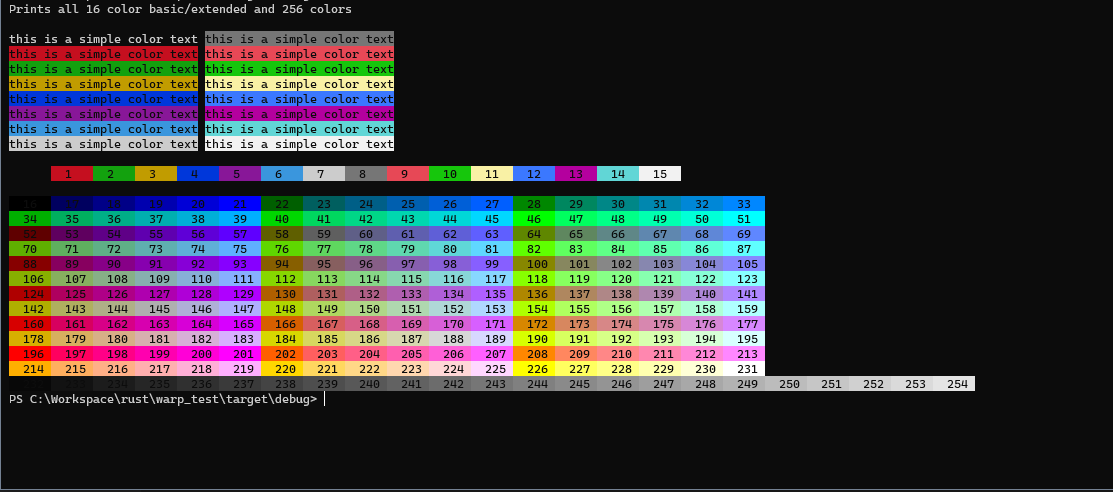
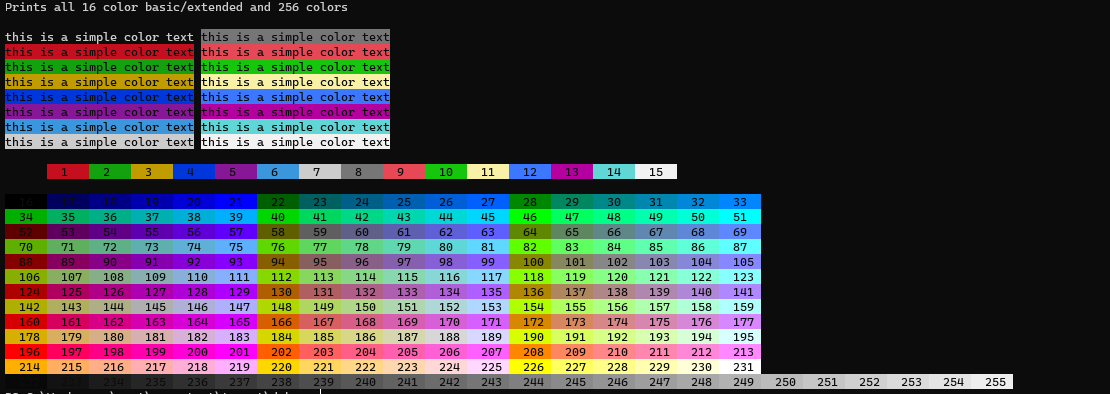
Color libraries merged.

diff --git a/src/color.rs b/src/color.rs
@@ -1,6 +1,6 @@
 /*!
-# color16
-This module implements all 16 terminal color rendering operations,
+# color
+This module implements all terminal color rendering operations,
 color conversions, color name definitions and traits for rust color library.
 
 ### 3bit and 4bit
@@ -14,6 +14,20 @@ color, providing 8 additional foreground and background colors.
 * to get black letters on white background - **ESC[30;47m**.
 * to get brighter colors with black letters on white background - **ESC[90;107m**. (+60)
 * to reset all attributes - **ESC[0m**.
+
+### 8bit
+
+As [256-color](https://en.wikipedia.org/wiki/8-bit_color) lookup tables became common on graphic cards, escape sequences were added to select from a pre-defined set of 256 colors
+
+### Examples
+
+* ESC[ 38;5;⟨n⟩ m Select foreground color
+* ESC[ 48;5;⟨n⟩ m Select background color \
+* ESC[ 38;5;⟨n1⟩;48;5;⟨n2⟩ m both foreground and background \
+0 - 7:  standard colors (as in ESC [ 30–37 m) \
+8 - 15:  high intensity colors (as in ESC [ 90–97 m) \
+16 - 231:  6 × 6 × 6 cube (216 colors): 16 + 36 × r + 6 × g + b (0 ≤ r, g, b ≤ 5) \
+232-255:  grayscale from black to white in 24 steps
  */
 
 /// Implements 16 color rendering operations and describes 16 color enumerations.
@@ -62,7 +76,7 @@ impl Color16 {
     /// # Examples
     ///
     /// ```
-    /// use rustcolor::color16::*;
+    /// use rustcolor::color::*;
     ///
     /// let bg_blue = Color16::BgBlue;
     /// let result = Color16::color_to_usize(bg_blue);
@@ -77,7 +91,7 @@ impl Color16 {
     /// # Examples
     ///
     /// ```
-    /// use rustcolor::color16::*;
+    /// use rustcolor::color::*;
     ///
     /// let bg_blue = Color16::usize_to_color(44);
     /// let expected = Color16::BgBlue;
@@ -128,7 +142,7 @@ impl Color16 {
     /// # Examples
     ///
     /// ```
-    /// use rustcolor::color16::*;
+    /// use rustcolor::color::*;
     ///
     /// let fg_blue = Color16::FgBlue;
     /// let fg_light_blue = fg_blue.lighten();
@@ -148,7 +162,7 @@ impl Color16 {
     /// # Examples
     ///
     /// ```
-    /// use rustcolor::color16::*;
+    /// use rustcolor::color::*;
     ///
     /// let fg_light_red = Color16::FgLightRed;
     /// let fg_red = fg_light_red.darken();
@@ -166,17 +180,18 @@ impl Color16 {
 
 /// ColorPrinter16 is a trait thats enhances String data type with the print16
 /// function.
-pub trait ColorPrinter16 {
+pub trait ColorPrinter {
     fn print_c16(&self, foreground: Color16, background: Color16) -> String;
+    fn print_c256(&self, foreground: usize, background: usize) -> String;
 }
 
-impl ColorPrinter16 for String {
+impl ColorPrinter for String {
     /// Enhance the given string with 16 color ansi scaped sequence.
     ///
     /// # Examples
     ///
     /// ```
-    /// use rustcolor::color16::*;
+    /// use rustcolor::color::*;
     ///
     /// let red_fg_text = "this is a red foreground color text"
     ///     .to_owned()
@@ -193,6 +208,14 @@ impl ColorPrinter16 for String {
             Color16::color_to_usize(foreground),
             Color16::color_to_usize(background),
             self
+        );
+        result
+    }
+
+    fn print_c256(&self, foreground: usize, background: usize) -> String {
+        let result = format!(
+            "\u{001b}[38;5;{};48;5;{}m{}\u{001b}[0m",
+            foreground, background, self
         );
         result
     }

diff --git a/src/lib.rs b/src/lib.rs
@@ -6,56 +6,55 @@ rendering output, compatible with windows.
 Rust Color uses **ansi scaped sequences**. This [article](https://en.wikipedia.org/wiki/ANSI_escape_code) in
 wikipedia explain how it works.
 */
-pub mod color16;
-pub mod color256;
+pub mod color;
 
 #[cfg(test)]
 mod tests {
-    use color16::*;
-    use color256::*;
+    use color::*;
+
     use super::*;
     #[test]
     fn test_color16_enum_conversion_to_usize() {
         let mut expected = 31;
-        let mut got = color16::Color16::color_to_usize(color16::Color16::FgRed);
+        let mut got = color::Color16::color_to_usize(color::Color16::FgRed);
         assert_eq!(expected, got);
         expected = 41;
-        got = color16::Color16::color_to_usize(color16::Color16::BgRed);
+        got = color::Color16::color_to_usize(color::Color16::BgRed);
         assert_eq!(expected, got)
     }
 
     #[test]
     fn test_color16_usize_conversion_to_enum() {
-        let mut fg_expected = color16::Color16::FgRed;
-        let mut fg_got = color16::Color16::usize_to_color(31);
+        let mut fg_expected = color::Color16::FgRed;
+        let mut fg_got = color::Color16::usize_to_color(31);
         assert_eq!(fg_expected, fg_got);
-        fg_expected = color16::Color16::FgLightBlue;
-        fg_got = color16::Color16::usize_to_color(94);
+        fg_expected = color::Color16::FgLightBlue;
+        fg_got = color::Color16::usize_to_color(94);
         assert_eq!(fg_expected, fg_got);
     }
 
     #[test]
     fn test_color16_lighten() {
-        let fg_red = color16::Color16::FgRed;
+        let fg_red = color::Color16::FgRed;
         let fg_light_red = fg_red.lighten();
-        assert_eq!(color16::Color16::FgLightRed, fg_light_red);
-        let fg_blue = color16::Color16::FgBlue;
+        assert_eq!(color::Color16::FgLightRed, fg_light_red);
+        let fg_blue = color::Color16::FgBlue;
         let fg_light_blue = fg_blue.lighten();
-        assert_eq!(color16::Color16::FgLightBlue, fg_light_blue);
+        assert_eq!(color::Color16::FgLightBlue, fg_light_blue);
     }
 
     #[test]
     fn test_color16_darken() {
-        let fg_light_red = color16::Color16::FgLightRed;
+        let fg_light_red = color::Color16::FgLightRed;
         let fg_red = fg_light_red.darken();
-        assert_eq!(color16::Color16::FgRed, fg_red);
+        assert_eq!(color::Color16::FgRed, fg_red);
     }
 
     #[test]
     fn test_color16_printer() {
         let red_fg_text = "this is a red foreground color text"
             .to_owned()
-            .print_c16(color16::Color16::FgRed, color16::Color16::BgBlack);
+            .print_c16(color::Color16::FgRed, color::Color16::BgBlack);
 
         assert_eq!(
             "\u{001b}[31;40mthis is a red foreground color text\u{001b}[0m",

diff --git a/README.MD b/README.MD
@@ -14,25 +14,24 @@ rustcolor = {path = "../rustcolor"}
 
 * How to use - The below code is a demo and prints basic/extended 3bit/4bit color and 8 bit color
 ```rust
-use rustcolor::{color16::{self, ColorPrinter16}, color256::ColorPrinter256};
+use rustcolor::color::{self, ColorPrinter};
 
 fn main() {
-
     println!("Prints all 16 color basic/extended and 256 colors\n");
 
     for i in 0..8 {
         let background = "this is a simple color text".to_owned().print_c16(
             if i == 0 {
-                color16::Color16::usize_to_color(37)
+                color::Color16::usize_to_color(37)
             } else {
-                color16::Color16::FgBlack
+                color::Color16::FgBlack
             },
-            color16::Color16::usize_to_color(i + 40),
+            color::Color16::usize_to_color(i + 40),
         );
 
         let bright_background = "this is a simple color text".to_owned().print_c16(
-            color16::Color16::FgBlack,
-            color16::Color16::usize_to_color(i + 100),
+            color::Color16::FgBlack,
+            color::Color16::usize_to_color(i + 100),
         );
 
         println!("{} {}", background, bright_background);
@@ -60,7 +59,7 @@ fn main() {
 
     println!();
 
-    for i in 232..255 {
+    for i in 232..256 {
         let bg_color = format!("  {:<4}", i).print_c256(0, i);
         print!("{}", bg_color);
     }
